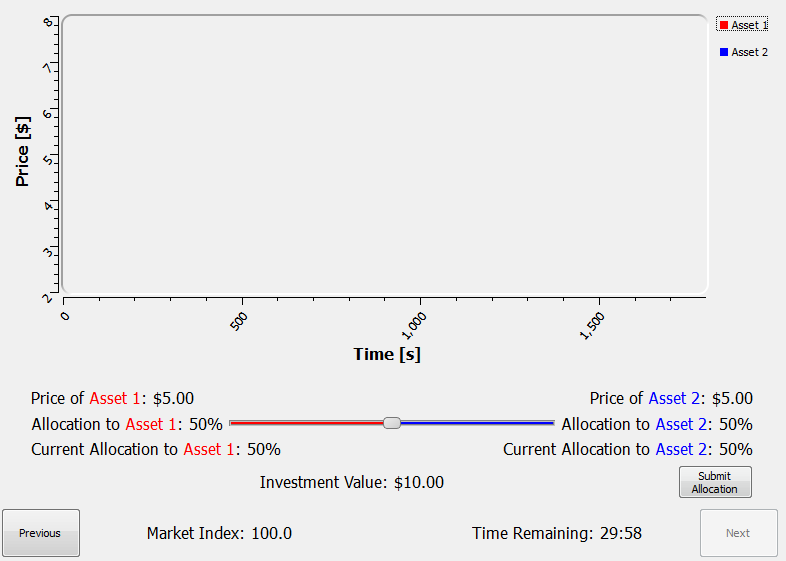
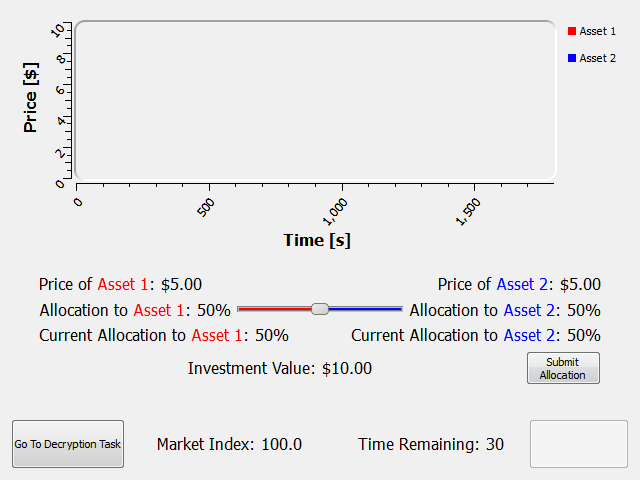
Updated buttons and resulting screenshot of market
Fixed the screenshot and two interactive screens to display correctly in
1024x768

diff --git a/MarketSimulation/mainwindow.cpp b/MarketSimulation/mainwindow.cpp
@@ -156,6 +156,7 @@ void MainWindow::preNavigation()
         }
         market->recordData(true, true);
         ui->prevButton->setText("Go To Decryption Task");
+        ui->nextButton->setText("");
     }
 
     //Fourth last screen is decryption
@@ -171,6 +172,7 @@ void MainWindow::preNavigation()
         }
         market->recordData(true, false);
         ui->nextButton->setText("Go To Simulation Task");
+        ui->prevButton->setText("");
         ui->prevButton->setEnabled(false);
     }
 
